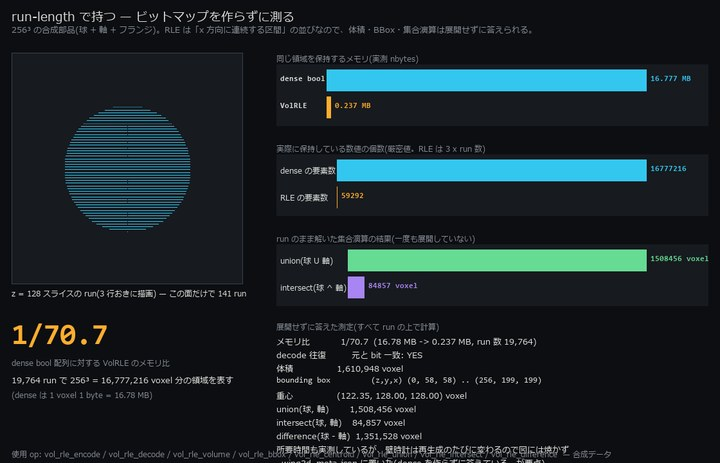
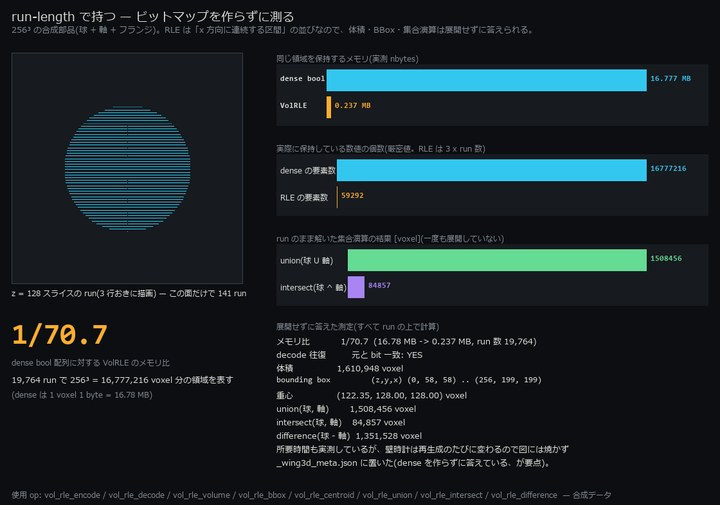
auto: backend_safe.py 編集前 (2026-09-02 03:31)

diff --git a/tools/gen_wingct_gallery.py b/tools/gen_wingct_gallery.py
@@ -525,48 +525,68 @@ def ex_volume_chart():
     lo = min(all_v) * 0.985
     hi = max(all_v) * 1.015
 
-    def panel(x0, y0, w, h, xs, ys, xlabels, title, sub):
+    def val_fmt(v):
+        return f"{v:.0f}"
+
+    def panel(x0, y0, w, h, xs, ys, xlabels, title, sub, mark=None):
         dr.text((x0 + w // 2, y0 - 22), title, fill=et.FG, font=f_a, anchor="mm")
         dr.rectangle([x0, y0, x0 + w, y0 + h], outline=(60, 60, 78))
-        # 真値と digitisation 天井の水平線
-        for val, col, tag in ((true_mm3, (250, 190, 90), "真値 (閉形式)"),
-                              (v_digital, (120, 190, 250), "この格子の天井")):
+        # 真値と digitisation 天井の水平線。ラベルは左右に振り分けて重ねない。
+        for val, col, tag, side in (
+                (true_mm3, (250, 190, 90),
+                 "真値(閉形式) %s" % val_fmt(true_mm3), "l"),
+                (v_digital, (120, 190, 250),
+                 "この格子の天井 %s" % val_fmt(v_digital), "r")):
             yy = y0 + h - (val - lo) / (hi - lo) * h
-            for xx in range(x0, x0 + w, 9):
+            for xx in range(x0 + 2, x0 + w - 2, 9):
                 dr.line([xx, yy, xx + 4, yy], fill=col)
-            dr.text((x0 + w - 6, yy - 11), f"{tag} {val:.0f}", fill=col,
-                    font=f_s, anchor="rm")
+            dy = -13 if side == "l" else 12
+            if side == "l":
+                dr.text((x0 + 8, yy + dy), tag, fill=col, font=f_s, anchor="lm")
+            else:
+                dr.text((x0 + w - 8, yy + dy), tag, fill=col, font=f_s, anchor="rm")
         pts = []
         for i, (xv, yv) in enumerate(zip(xs, ys)):
-            px = x0 + 34 + i * (w - 60) / max(len(xs) - 1, 1)
+            px = x0 + 40 + i * (w - 76) / max(len(xs) - 1, 1)
             py = y0 + h - (yv - lo) / (hi - lo) * h
             pts.append((px, py))
             dr.text((px, y0 + h + 15), xlabels[i], fill=et.MUTED, font=f_s,
                     anchor="mm")
-            dr.text((px, py - 15), f"{yv:.0f}", fill=et.FG, font=f_s, anchor="mm")
+            dr.text((px, py - 16), f"{yv:.0f}", fill=et.FG, font=f_s, anchor="mm")
         dr.line(pts, fill=(150, 210, 255), width=2)
         for px, py in pts:
             dr.ellipse([px - 4, py - 4, px + 4, py + 4], fill=(150, 210, 255))
+        if mark is not None:
+            px, py = pts[mark]
+            dr.ellipse([px - 9, py - 9, px + 9, py + 9], outline=(250, 140, 90),
+                       width=2)
+            dr.text((px + 14, py), "← 信用できない領域", fill=(250, 140, 90),
+                    font=f_s, anchor="lm")
         dr.text((x0 + w // 2, y0 + h + 40), sub, fill=et.MUTED, font=f_s,
                 anchor="mm")
 
-    span_v = max(measured) - min(measured)
+    span_v_all = max(measured) - min(measured)
+    span_v16 = max(measured[1:]) - min(measured[1:])
     span_t = max(thr_vols) - min(thr_vols)
     panel(70, 90, 470, 340, views, measured, [str(v) for v in views],
-          "投影数を変える", f"振れ幅 {span_v:.0f} mm3  "
-          f"({span_v / true_mm3:.1%} of 真値) / 横軸 = 投影数")
+          "投影数を変える",
+          f"16-128 本の振れ幅 {span_v16:.0f} mm3 ({span_v16 / true_mm3:.2%}) / "
+          f"8 本を含めると {span_v_all:.0f} mm3 / 横軸 = 投影数", mark=0)
     panel(640, 90, 470, 340, thr_fracs, thr_vols,
           [f"{f:.2f}" for f in thr_fracs], "二値化しきい値を変える",
-          f"振れ幅 {span_t:.0f} mm3  ({span_t / true_mm3:.1%} of 真値) / "
+          f"振れ幅 {span_t:.0f} mm3  ({span_t / true_mm3:.2%} of 真値) / "
           f"横軸 = しきい値 (減弱比)")
     dr.text((W // 2, H - 46),
-            f"しきい値の任意性のほうが投影数より {span_t / max(span_v, 1e-9):.0f} 倍効く。"
-            f"投影 8 本の再構成は nRMS {nrmses[0]:.3f}"
-            f"({nrmses[-1]:.3f} の {nrmses[0]/nrmses[-1]:.1f} 倍)で壊れているのに、",
+            f"投影 16 本以上では体積は {span_v16 / true_mm3:.2%} しか動かない"
+            f"(nRMS は {nrmses[1]:.3f} → {nrmses[-1]:.3f} と "
+            f"{nrmses[1]/nrmses[-1]:.1f} 倍改善するのに)。"
+            f"しきい値は {span_t / true_mm3:.1%} 動かす ―― "
+            f"{span_t / max(span_v16, 1e-9):.0f} 倍効く。",
             fill=et.FG, font=f_a, anchor="mm")
     dr.text((W // 2, H - 22),
-            f"体積は {measured[0]:.0f} mm3 ({measured[0]/true_mm3-1:+.1%}) と正しく見える。"
-            f"壊れを教えるのは体積でなく連結成分の数({comps[0]} 個 対 {comps[-1]} 個)。",
+            f"8 本の点だけは別で、体積 {measured[0]/true_mm3-1:+.1%} は再現しない"
+            f"(面内 128 画素では -0.0%)。壊れを教えるのは体積でなく連結成分の数"
+            f"({comps[0]} 個 対 {comps[-1]} 個)。",
             fill=et.FG, font=f_a, anchor="mm")
 
     info = et.save_exhibit(np.asarray(im, np.float64) / 255.0,

diff --git a/tools/gen_wing3d_gallery.py b/tools/gen_wing3d_gallery.py
@@ -951,7 +951,7 @@ def ex_rle(log) -> dict:
         f"= {t_den_vol / t_rle_vol:.0f}x ;  bbox {t_den_bb / t_rle_bb:.0f}x "
         f"(いずれも図には焼かない)")
 
-    W, H = 1120, 720
+    W, H = 1120, 786
     c = _canvas(W, H)
     c = _header(c, "run-length で持つ — ビットマップを作らずに測る",
                 "256³ の合成部品(球 + 軸 + フランジ)。RLE は「x 方向に連続する区間」"
@@ -997,8 +997,8 @@ def ex_rle(log) -> dict:
               title="実際に保持している数値の個数(厳密値。RLE は 3 x run 数)")
     c = _bars(c, 430, 380, 672, 96,
               [float(v_un), float(v_in)],
-              ["union(球 U 軸)", "intersect(球 ^ 軸)"], [C_D, C_C], fmt="%.0f voxel",
-              title="run のまま解いた集合演算の結果(一度も展開していない)")
+              ["union(球 U 軸)", "intersect(球 ^ 軸)"], [C_D, C_C], fmt="%.0f",
+              title="run のまま解いた集合演算の結果 [voxel](一度も展開していない)")
 
     rows = [
         f"メモリ比            1/{ratio:.1f}  ({dense_bytes / 1e6:.2f} MB -> {rle.nbytes / 1e6:.3f} MB, run 数 {len(rle):,})",
@@ -1024,7 +1024,7 @@ def ex_rle(log) -> dict:
                    C_DIM, 12, False)])
     c = _footer(c, "使用 op: vol_rle_encode / vol_rle_decode / vol_rle_volume / "
                    "vol_rle_bbox / vol_rle_centroid / vol_rle_union / vol_rle_intersect / "
-                   "vol_rle_difference  — 合成データ")
+                   "vol_rle_difference  — 合成データ", y_off=24)
     info = _save_png(c, "wing3d_rle_compression", log)
     return {
         "name": "wing3d_rle_compression", "title": "run-length で 1/%.0f" % ratio,

diff --git a/docs/articles/assets/_wing3d_manifest.md b/docs/articles/assets/_wing3d_manifest.md
@@ -6,7 +6,7 @@
 |---|---|---|---|---|
 | domain | GIF+mp4 | `media/wing3d_domain_memory.gif` | 40 フレーム, 1120x690, 0.48 MB, 256 色, mp4 0.07 MB | `8a3b89df7c282535` |
 | boundary | GIF+mp4 | `media/wing3d_boundary_shell.gif` | 36 フレーム, 1120x640, 2.74 MB, 128 色, mp4 1.59 MB | `d56e8ff18bc8163e` |
-| rle | PNG | `wing3d_rle_compression.png` | 1120x720, 107 kB | `5c87eb6953fa5df3` |
+| rle | PNG | `wing3d_rle_compression.png` | 1120x786, 109 kB | `5ed1e9464bf1367d` |
 | windowing | GIF+mp4 | `media/wing3d_ct_windowing.gif` | 40 フレーム, 1120x726, 0.50 MB, 256 色, mp4 0.08 MB | `5e745b230bbe437a` |
 | vesselness | PNG | `wing3d_vesselness_control.png` | 1120x700, 72 kB | `cc38dce5f5e7553b` |
 | skeleton | GIF+mp4 | `media/wing3d_skeleton_graph.gif` | 48 フレーム, 1120x660, 1.41 MB, 256 色, mp4 0.26 MB | `0c27c243f2169388` |
